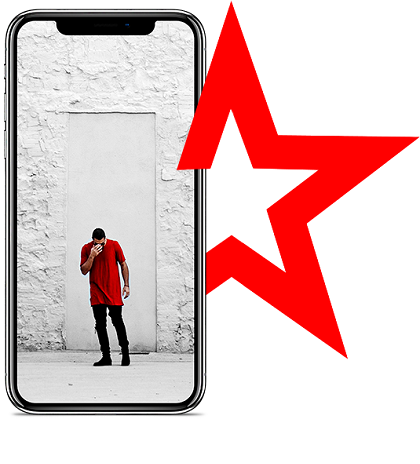
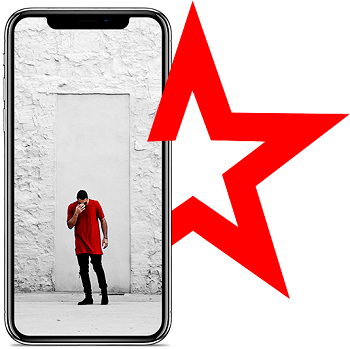
14.12.2020

Changed region(s): [[0.0, 0.0, 1.0, 1.0], [0.3429, 0.1433, 0.4286, 0.2579], [0.5714, 0.0573, 0.6, 0.1433]]

diff --git a/public/assets/css/styles.css b/public/assets/css/styles.css
@@ -2319,6 +2319,13 @@ margin-right: auto;
 }
 .footer-bottom {
   background: #1e1e1e;
+  /* padding: 12px 0; */
+  bottom: 0;
+    margin: 0 auto !important;
+    text-align: center !important;
+    width: 100% !important;
+    height: 40px;
+    position: absolute;
 }
 .footer-bottom-privacy {
   display: inline-block;

diff --git a/public/assets/css/responsive.css b/public/assets/css/responsive.css
@@ -2454,7 +2454,7 @@
     /* display: none; */
   }
   .section-slider .owl-pagination {
-    /* margin-top: 10px; */
+    margin-top: auto;
   }
   .section-about {
     padding: 25px 0;

diff --git a/resources/views/home.blade.php b/resources/views/home.blade.php
@@ -104,7 +104,7 @@
                                     </div>
                                     <div class="slider-item slider-item-2">
                                         <div class="slider-image">
-                                            <img src="assets/images/slider-image2.png" alt="slider-item">
+                                            <img src="assets/images/slider-image2.jpg" alt="slider-item">
                                         </div>
                                         <div class="slider-caption">
                                             <h2>Splash your <span>creativity</span></h2>
@@ -117,7 +117,7 @@
                                             <p>“Every Single person in our team is called  a ROI – Results Oriented Individuals”</p>
                                         </div>
                                         <div class="slider-image">
-                                            <img src="assets/images/slider-image3.png" alt="slider-item">
+                                            <img src="assets/images/slider-image3.jpg" alt="slider-item">
                                         </div>
                                     </div>
                                 </div>
